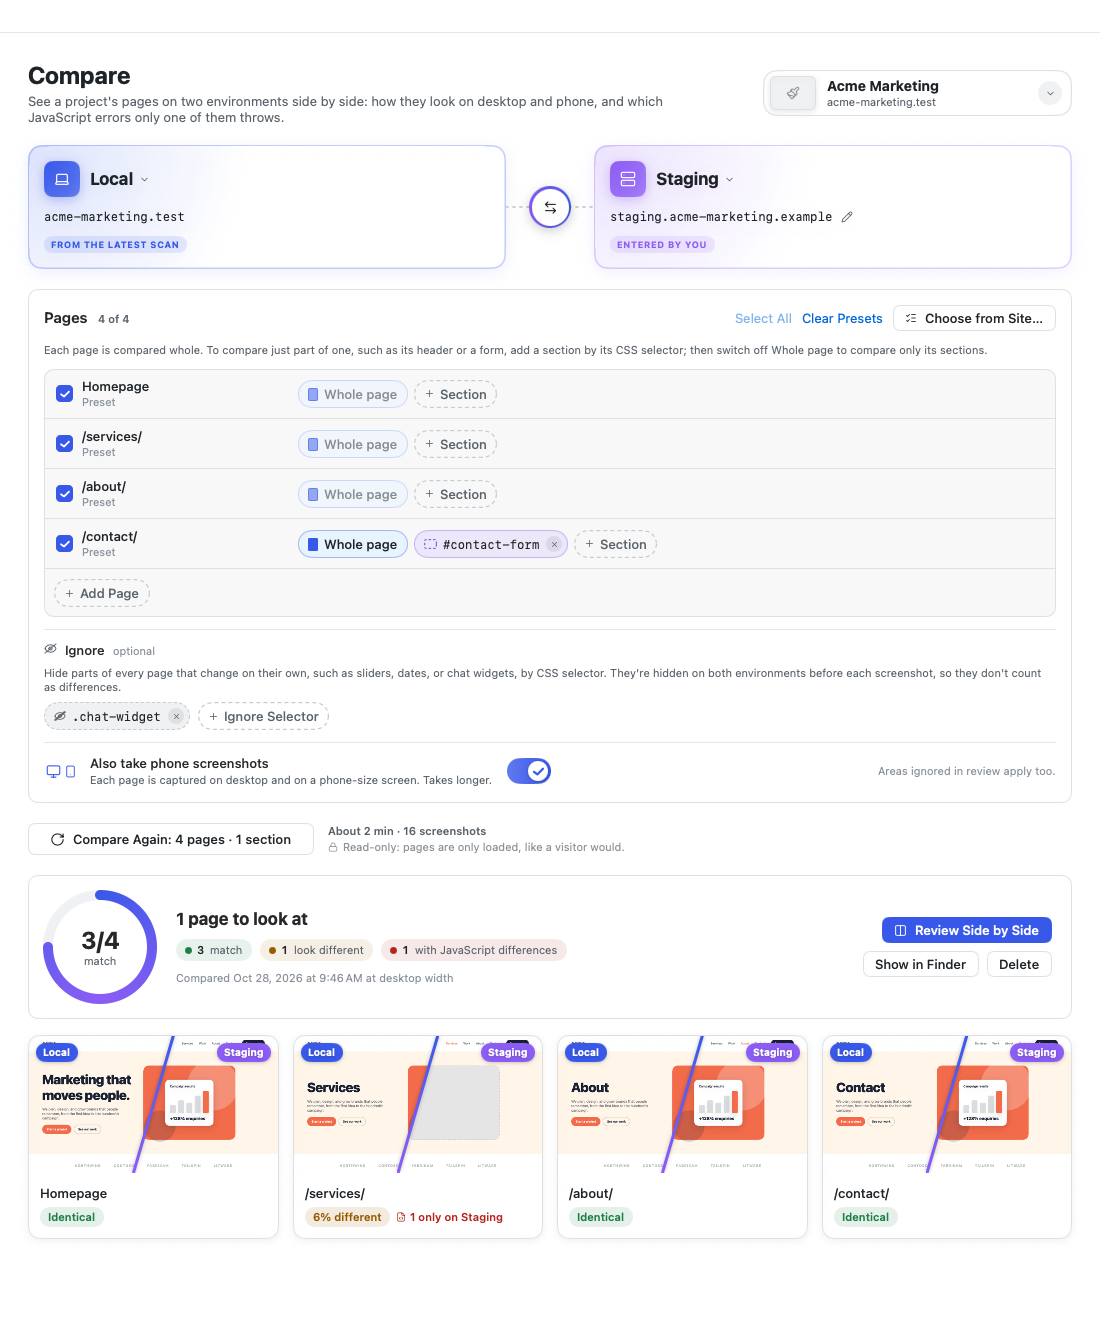
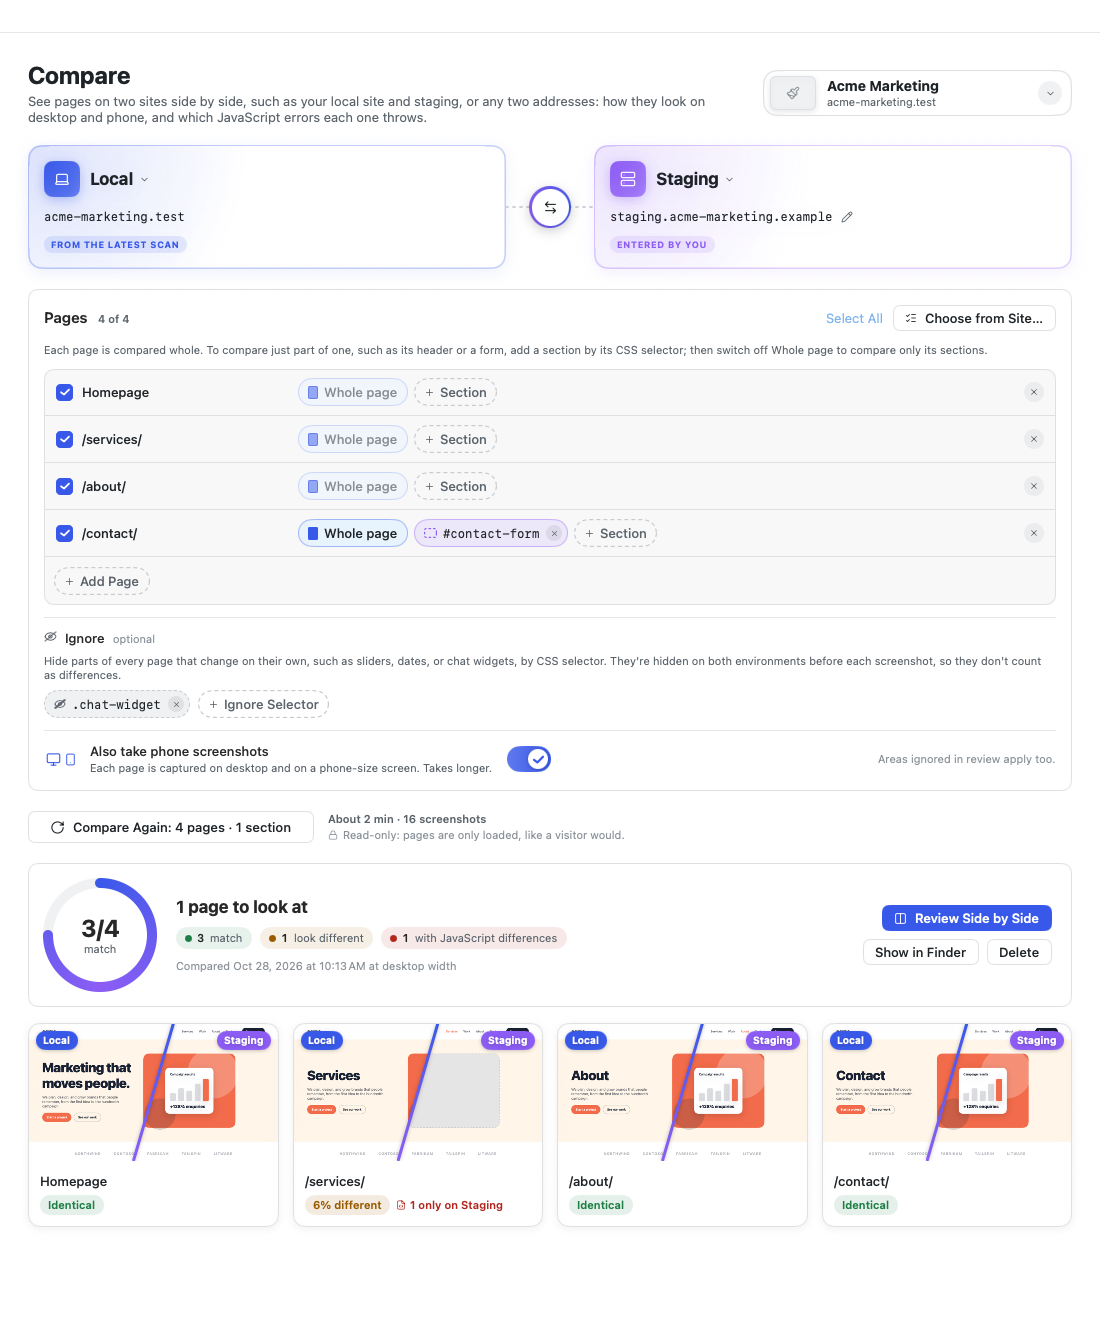
Describe Compare's Custom mode and empty page lists

diff --git a/README.md b/README.md
@@ -154,10 +154,10 @@ Choose which pages are checked in the project's **Settings** tab. Screenshots ar
 
 ### Compare environments
 
-**Compare** shows the same pages on two versions of a site side by side, such as your local site and staging, or staging and production. It's a quick way to answer "does staging look like my local site?" before you deploy, or "what's different on production?" after.
+**Compare** shows the same pages on two versions of a site side by side, such as your local site and staging, staging and production, or any two addresses. It's a quick way to answer "does staging look like my local site?" before you deploy, or "what's different on production?" after.
 
-1. Pick a project and the two environments. Servers come from your project's `wp-cli.yml`, and their addresses are filled in when PressRoom can find them (from `wp-cli.yml`, GitLab, or WP Engine). You can type any address with **Custom**.
-2. Choose the pages. The homepage and your project's pages are there already; **Add Page** or **Choose from Site** adds others, and **Clear Presets** starts from just yours.
+1. Choose what to compare. Compare opens on **Custom**: type any two addresses, such as the live site and a redesign, no project needed. Or pick a project to compare its environments: servers come from its `wp-cli.yml`, and their addresses are filled in when PressRoom can find them (from `wp-cli.yml`, GitLab, or WP Engine). You can still type any address with the project's **Custom** option.
+2. Add the pages. The list starts empty. **Add Page** takes a path, like `/contact/`, or a full address from either site. With a project, **Import Project Pages** adds its homepage and pages to check in one click, and **Choose from Site** picks from its published content.
 3. Optionally, focus on **sections**: add a CSS selector to a page, such as `header` or `.donate-form`, to compare just that part. Each page loads once, however many sections it has.
 4. Optionally, **Ignore** CSS selectors for things that change on their own, like sliders or chat widgets. They're hidden on both sides.
 5. Click **Compare**. PressRoom loads each page on both environments (it only looks, like a visitor) and shows which match, which look different, and which have JavaScript errors only one side throws.

diff --git a/CHANGELOG.md b/CHANGELOG.md
@@ -1,5 +1,13 @@
 # Changelog
 
+## Unreleased
+
+- Compare has no page limit: add as many pages as you like. The 10-page limit applies only to the pages checked after updates.
+- Compare opens on **Custom**: compare any two addresses, no project needed. Pick it again from the project menu any time.
+- A project's Compare list now starts empty. **Import Project Pages** adds its homepage and pages to check in one click.
+- The sidebar button no longer looks squeezed on macOS 26 and later.
+
+
 ## 1.0.0 — 2026-10-28
 
 The first public release.
